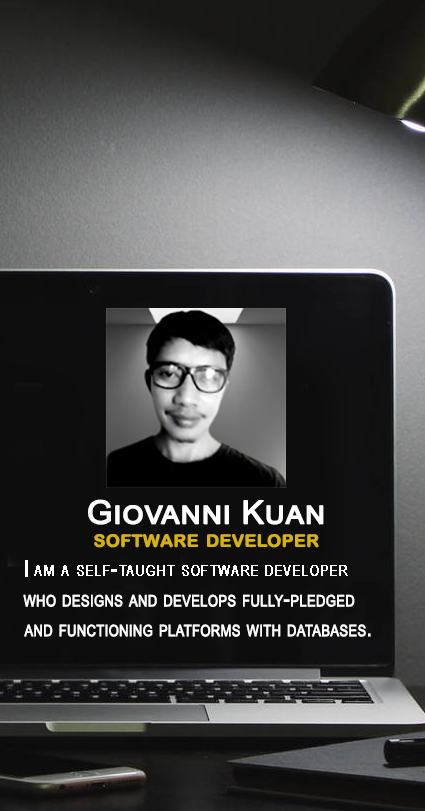
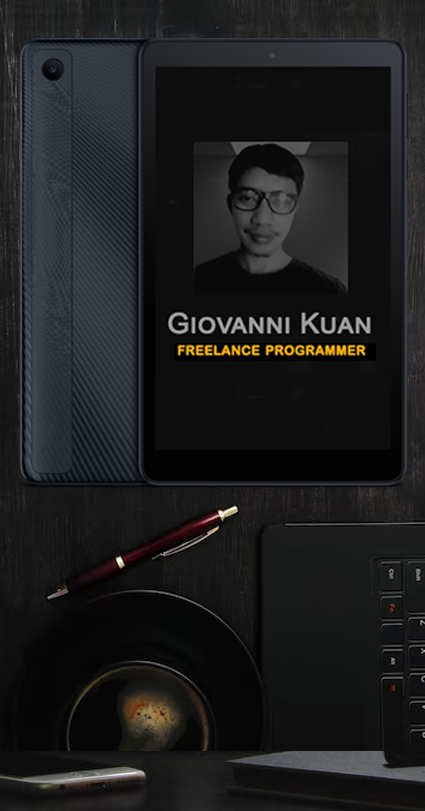
change mobile background picture

diff --git a/src/App.vue b/src/App.vue
@@ -91,4 +91,13 @@ import Contact from "./components/contact.vue";
   height: 750px; /* Adjust this height to fit your needs */
 }
 
+/* Media query for screens smaller than 768px (typical mobile screens) */
+@media screen and (max-width: 767px) {
+  .background-image-container {
+    /* Override background image for mobile screens */
+    background-image: url('./assets/hero-mobile.png');
+  }
+}
+
+
 </style>
